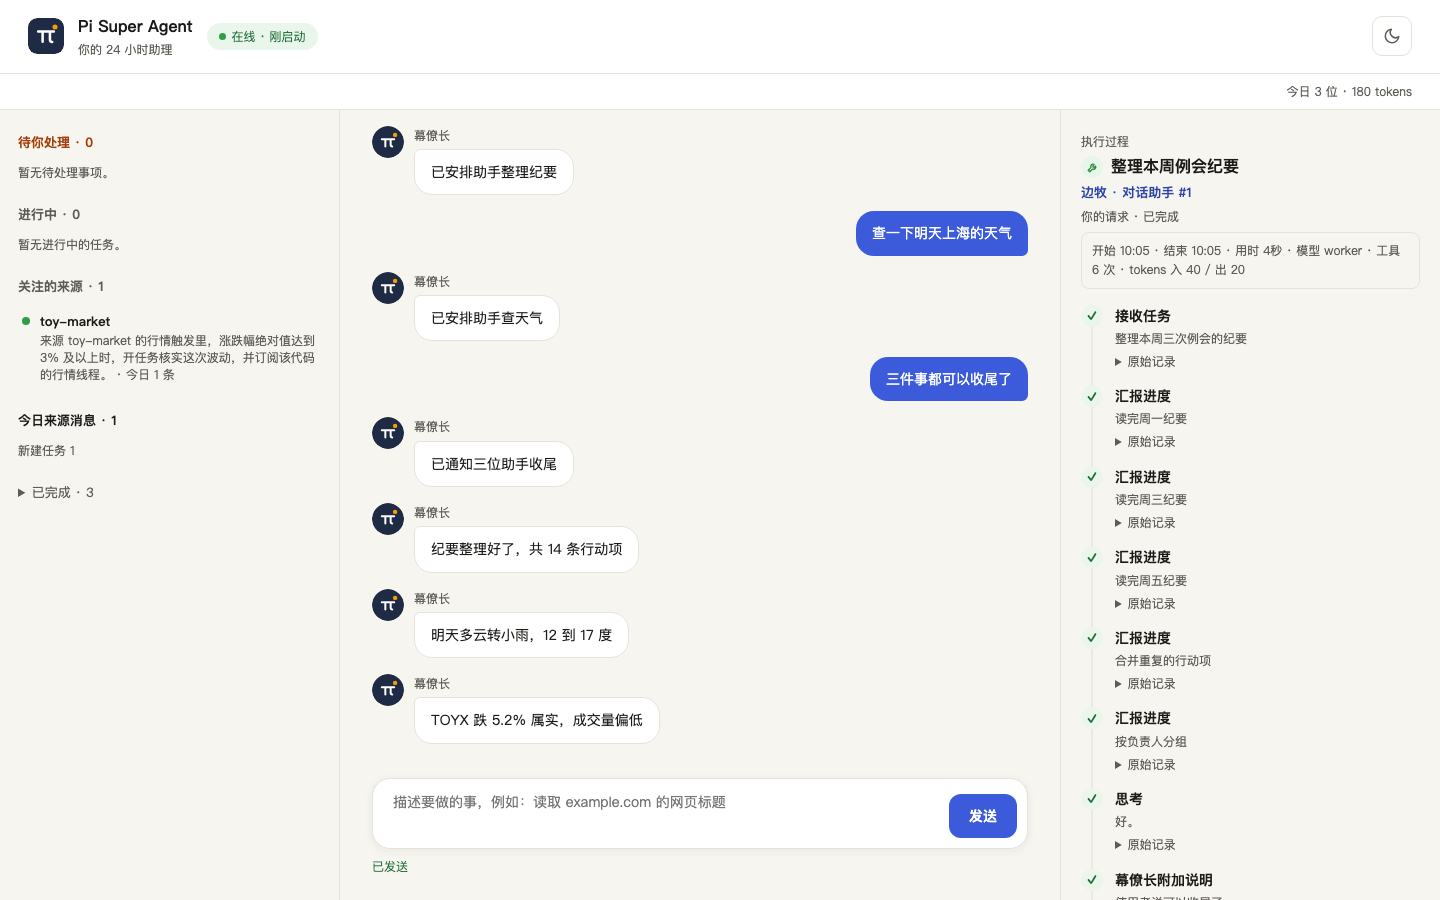
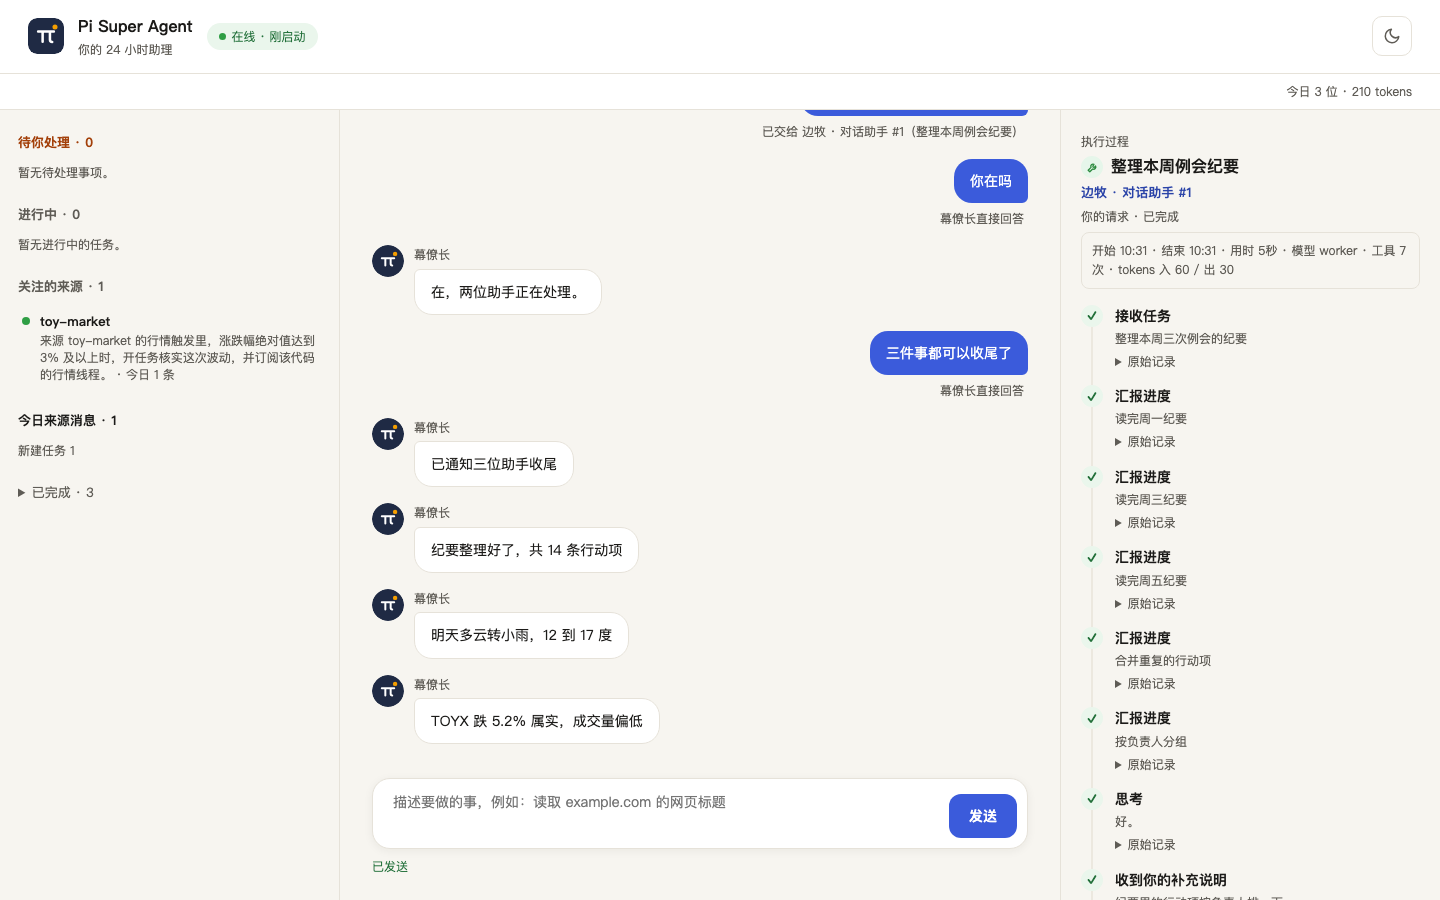
docs(w5): refresh the review screenshots and add the routing lines

diff --git a/docs/web-client/evidence/w5-review.ts b/docs/web-client/evidence/w5-review.ts
@@ -29,13 +29,15 @@ const fake = await FakeModel.start({
 		on("开纪要", /^\[对话\][\s\S]*纪要/, (c) => [openTicket(c, "整理本周例会纪要", NOTES.minutes), reply(c, "已安排助手整理纪要")]),
 		on("开天气", /^\[对话\][\s\S]*天气/, (c) => [openTicket(c, "查明天上海天气", NOTES.weather), reply(c, "已安排助手查天气")]),
 		on("开行情", /^\[候选触发\][\s\S]*toy-market/, (c) => [{ name: "route", args: { decisions: [{ kind: "open_ticket", basis: "rule", ruleId: "toy-market/big-move", triggerId: c.match(/trg_[\w-]+/)?.[0], title: "核实 TOYX 跌 5.2%", brief: NOTES.market }] } }]),
+		on("转交纪要补充", /^\[对话\][\s\S]*使用者：纪要里的行动项/, (c) => [{ name: "route", args: { decisions: [{ kind: "hand_over", triggerId: c.match(/trg_[\w-]+/)?.[0], ticketId: c.match(/(tkt_[\w-]+)「整理本周例会纪要」/)?.[1] }] } }]),
+		on("直接回答", /^\[对话\][\s\S]*使用者：你在吗/, (c) => [reply(c, "在，两位助手正在处理。")]),
 		on("收尾", /^\[对话\][\s\S]*收尾/, (c) => [...noteAll(c), reply(c, "已通知三位助手收尾")]),
 		on("转述纪要", /^\[Worker 汇报\][\s\S]*行动项/, (c) => [reply(c, "纪要整理好了，共 14 条行动项")]),
 		on("转述天气", /^\[Worker 汇报\][\s\S]*小雨/, (c) => [reply(c, "明天多云转小雨，12 到 17 度")]),
 		on("转述行情", /^\[Worker 汇报\][\s\S]*TOYX/, (c) => [reply(c, "TOYX 跌 5.2% 属实，成交量偏低")]),
 	],
 	workers: [
-		worker(NOTES.minutes, on("纪要", /^\[任务说明\]/, () => progress("读完周一纪要", "读完周三纪要", "读完周五纪要", "合并重复的行动项", "按负责人分组")), finish("纪要已整理，共 14 条行动项")),
+		worker(NOTES.minutes, on("纪要", /^\[任务说明\]/, () => progress("读完周一纪要", "读完周三纪要", "读完周五纪要", "合并重复的行动项", "按负责人分组")), on("纪要补充", /^\[使用者的话/, () => progress("已按负责人重新排序")), finish("纪要已整理，共 14 条行动项")),
 		worker(NOTES.weather, on("天气", /^\[任务说明\]/, () => progress("查到明天多云转小雨")), finish("明天多云转小雨，12 到 17 度")),
 		worker(NOTES.market, on("行情", /^\[任务说明\]/, () => progress("读取 TOYX 最近报价", "对比昨日收盘")), finish("TOYX 跌 5.2% 属实，成交量偏低")),
 	],
@@ -76,6 +78,16 @@ try {
 	await page.locator("#steps").waitFor({ state: "attached" });
 	await page.waitForTimeout(1500);
 	await shoot("two-helpers");
+
+	const routeUnder = (text: string) => page.locator(".line.user", { hasText: text }).locator(".route");
+	await page.locator("#left .card", { hasText: "按负责人分组" }).waitFor();
+	await say("纪要里的行动项按负责人排一下");
+	await routeUnder("纪要里的行动项").filter({ hasText: /^已交给 .+（整理本周例会纪要）$/ }).waitFor();
+	await say("你在吗");
+	await routeUnder("你在吗").filter({ hasText: "幕僚长直接回答" }).waitFor();
+	await routeUnder("帮我整理本周三次例会的纪要").filter({ hasText: /^已开新任务「整理本周例会纪要」 · / }).waitFor();
+	report_.push(`去向：${(await page.locator(".line.user .route").allInnerTexts()).join(" | ")}`);
+	await shoot("routing");
 
 	const feed = runSync(["modules/toy-market/feed.ts", "TOYX", "-5.2", "12"], { ...process.env, ...env });
 	assert.equal(feed.status, 0, feed.stderr);
